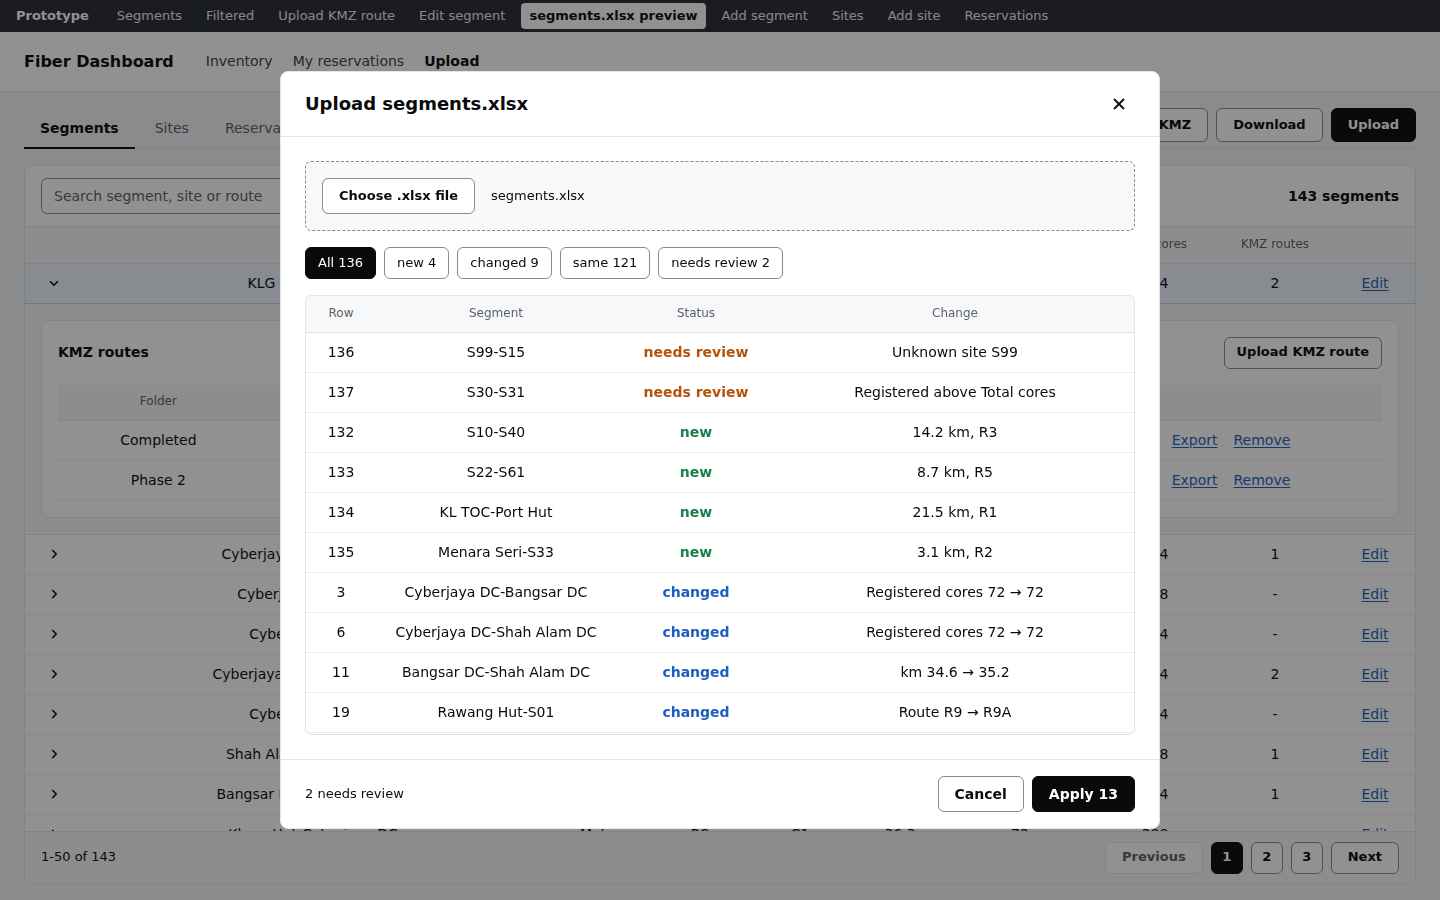
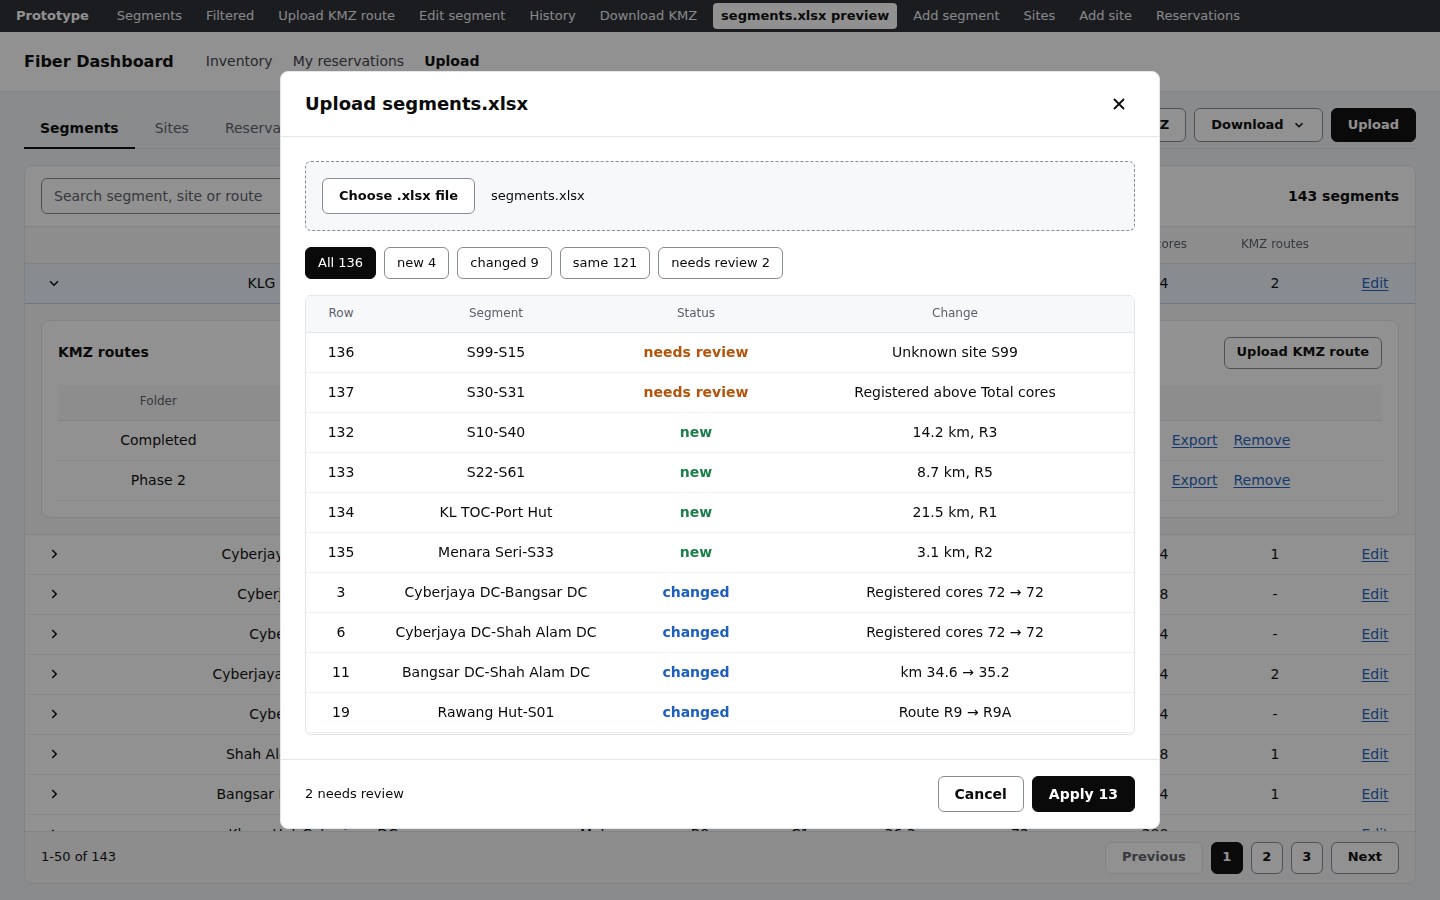
pictures: Upload rework extras (Download KMZ, same, map in Upload KMZ route, History), 26 Nov 2026
Claude-Session: https://claude.ai/code/session_01YGKZuAJrqywA4fjVaRMsdP

diff --git a/mockups/upload-rework/index.html b/mockups/upload-rework/index.html
@@ -139,7 +139,7 @@ select.field { appearance: none; padding-right: 30px; cursor: pointer; backgroun
 .drop { border: 1px dashed var(--line); background: var(--subtle); border-radius: 6px; padding: 16px; display: flex; align-items: center; gap: 16px; font-size: 13px; }
 .segname { font-size: 16px; font-weight: 500; }
 .flist { border: 1px solid var(--border); border-radius: 6px; }
-.frow { display: grid; grid-template-columns: 16px minmax(0, 1fr) 100px 80px 120px; align-items: center; gap: 12px; min-height: 40px; text-align: center; padding: 0 16px; font-size: 14px; border-bottom: 1px solid var(--rule); cursor: pointer; }
+.frow { display: grid; grid-template-columns: 16px minmax(0, 1fr) 90px 70px 120px; align-items: center; gap: 12px; min-height: 40px; text-align: center; padding: 0 16px; font-size: 14px; border-bottom: 1px solid var(--rule); cursor: pointer; }
 .frow:last-child { border-bottom: 0; }
 .frow.head { min-height: 36px; font-size: 12px; color: var(--muted-ink); background: var(--subtle); cursor: default; font-weight: 500; }
 .frow > span { overflow-wrap: anywhere; line-height: 1.3; padding: 4px 0; }
@@ -147,6 +147,31 @@ select.field { appearance: none; padding-right: 30px; cursor: pointer; backgroun
 .chips { display: flex; gap: 8px; flex-wrap: wrap; }
 .pscroll { max-height: 440px; overflow: auto; border: 1px solid var(--border); border-radius: 6px; }
 .toast { position: fixed; right: 24px; bottom: 24px; background: var(--ink); color: #fff; padding: 12px 16px; border-radius: 6px; font-size: 13px; z-index: 20; }
+
+/* Menu, options, map, history */
+.menu { position: relative; display: inline-block; }
+.menu-list { position: absolute; right: 0; top: 100%; margin-top: 4px; background: #fff; border: 1px solid var(--border); border-radius: 6px; min-width: 170px; z-index: 5; padding: 4px; display: grid; }
+.menu-list button { height: 36px; border: 0; background: none; border-radius: 4px; cursor: pointer; font-weight: 500; }
+.menu-list button:hover { background: var(--raised); }
+.opt { display: flex; align-items: center; gap: 8px; min-height: 36px; cursor: pointer; }
+.opt input { width: 16px; height: 16px; accent-color: var(--blue); margin: 0; }
+.upgrid { display: grid; grid-template-columns: minmax(0, 1fr) 360px; gap: 24px; align-items: start; }
+.upleft { display: grid; gap: 16px; min-width: 0; }
+.mapbox { border: 1px solid var(--border); border-radius: 6px; background: var(--map-bg); }
+.mapbox svg { display: block; width: 360px; height: 300px; }
+.mapbox .key { display: flex; justify-content: center; gap: 24px; padding: 8px 0; border-top: 1px solid var(--border); background: #fff; border-radius: 0 0 6px 6px; font-size: 13px; }
+.mapbox .key span { display: inline-flex; align-items: center; gap: 8px; }
+.mapbox .key svg { width: 28px; height: 10px; }
+.rt { fill: none; stroke-linecap: round; stroke-linejoin: round; }
+.rt-stored { stroke: var(--ink); stroke-width: 1.5; }
+.rt-new { stroke: var(--blue); stroke-width: 1.5; stroke-dasharray: 6 4; }
+.rt.hl { stroke-width: 4; }
+.hist summary { list-style: none; display: flex; align-items: center; gap: 8px; cursor: pointer; font-weight: 600; height: 32px; }
+.hist summary::-webkit-details-marker { display: none; }
+.hist summary svg { width: 14px; height: 14px; fill: none; stroke: var(--ink); stroke-width: 1.8; transition: transform .12s; }
+.hist[open] summary svg { transform: rotate(90deg); }
+.hist .tbl th, .hist .tbl td { padding: 4px 4px; }
+.hist .tbox { margin-top: 8px; }
 
 /* Reservations */
 .card { background: #fff; border: 1px solid var(--border); border-radius: 8px; padding: 24px; display: grid; gap: 16px; max-width: 880px; }
@@ -166,7 +191,7 @@ select.field { appearance: none; padding-right: 30px; cursor: pointer; backgroun
 
 <nav class="proto" aria-label="Prototype views">
   <b>Prototype</b>
-  <a href="#segments">Segments</a><a href="#filtered">Filtered</a><a href="#upload-route">Upload KMZ route</a><a href="#edit">Edit segment</a>
+  <a href="#segments">Segments</a><a href="#filtered">Filtered</a><a href="#upload-route">Upload KMZ route</a><a href="#edit">Edit segment</a><a href="#history">History</a><a href="#download-kmz">Download KMZ</a>
   <a href="#xlsx">segments.xlsx preview</a><a href="#add-segment">Add segment</a><a href="#sites">Sites</a><a href="#add-site">Add site</a><a href="#reservations">Reservations</a>
 </nav>
 
@@ -193,6 +218,7 @@ select.field { appearance: none; padding-right: 30px; cursor: pointer; backgroun
 <script>
 const $ = (selector) => document.querySelector(selector);
 const CHEV = '<svg viewBox="0 0 16 16"><path d="M6 3.5L10.5 8 6 12.5"/></svg>';
+const CHEVDOWN = '<svg width="14" height="14" viewBox="0 0 16 16" fill="none" stroke="currentColor" stroke-width="1.8"><path d="M4 6l4 4 4-4"/></svg>';
 const XICON = '<svg width="16" height="16" viewBox="0 0 16 16" fill="none" stroke="currentColor" stroke-width="1.8"><path d="M3 3l10 10M13 3L3 13"/></svg>';
 const plural = (count, word) => count + " " + word + (count === 1 ? "" : "s");
 const PAGE_SIZE = 50;
@@ -294,6 +320,7 @@ const state = {
   sites: { search: "", kind: "", page: 0 },
   open: new Set(),
   modal: null,
+  menu: false,
   reservationClosed: false,
 };
 
@@ -313,7 +340,8 @@ function render() {
   });
   if (state.tab === "segments") {
     $("#bulk").innerHTML = `<button class="btn btn-sm" type="button" data-open="import-kmz">Import KMZ</button>
-      <button class="btn btn-sm" type="button" data-act="download-seg">Download</button>
+      <span class="menu"><button class="btn btn-sm" type="button" data-menu="1" aria-haspopup="menu" aria-expanded="${state.menu}">Download ${CHEVDOWN}</button>
+      ${state.menu ? '<div class="menu-list" role="menu"><button type="button" role="menuitem" data-act="download-seg">segments.xlsx</button><button type="button" role="menuitem" data-open="dl-kmz">KMZ routes</button></div>' : ""}</span>
       <button class="btn btn-sm btn-p" type="button" data-open="xlsx-seg">Upload</button>`;
     renderSegments();
   } else if (state.tab === "sites") {
@@ -522,32 +550,74 @@ function boxShell(width, title, body, foot, labelId = "box-title") {
     <div class="bb">${body}</div><div class="bf">${foot}</div></div>`;
 }
 function fileLines(segment) {
-  const others = SEGMENTS.slice(8, 13);
-  const list = [{ key: "f0", title: segment.link, folder: "Completed", km: +(segment.km * 1.03).toFixed(1) }];
-  others.forEach((other, index) => list.push({ key: "f" + (index + 1), title: other.link, folder: "Completed", km: +(other.km * 1.02).toFixed(1) }));
-  list.push({ key: "f9", title: "Untitled Path", folder: "Completed", km: 6.9 });
-  return list;
+  return [
+    { key: "f0", title: segment.link, folder: "Completed", km: +(segment.km * 1.03).toFixed(1), status: "same" },
+    { key: "f1", title: segment.link, folder: "Phase 2", km: +(segment.km * 1.05).toFixed(1), status: "replaces route" },
+    { key: "f2", title: "Path 12", folder: "Phase 2", km: 6.9, status: "new" },
+  ];
+}
+const ROUTE_PTS = {
+  stored: "50,220 100,205 140,160 190,150 235,105 275,85 310,70",
+  f0: "50,220 100,205 140,160 190,150 235,105 275,85 310,70",
+  f1: "50,220 95,235 150,215 200,180 240,140 280,100 310,70",
+  f2: "50,220 80,170 130,120 190,95 250,60 310,70",
+};
+function mapSvg(modal, segment, lines) {
+  const stored = liveLines(segment).length > 0 ? `<polyline class="rt rt-stored" data-rt="stored" points="${ROUTE_PTS.stored}"/>` : "";
+  const fresh = lines.filter((line) => modal.picked.has(line.key) && line.status !== "same")
+    .map((line) => `<polyline class="rt rt-new" data-rt="${line.key}" points="${ROUTE_PTS[line.key]}"/>`).join("");
+  const hover = lines.filter((line) => !modal.picked.has(line.key) || line.status === "same")
+    .map((line) => `<polyline class="rt rt-new" data-rt="${line.key}" points="${ROUTE_PTS[line.key]}" opacity="0"/>`).join("");
+  const dots = `<circle cx="50" cy="220" r="6" fill="var(--ink)"/><circle cx="310" cy="70" r="6" fill="var(--ink)"/>
+    <text x="50" y="250" text-anchor="start" font-size="13" fill="var(--ink)">${segment.a}</text><text x="310" y="50" text-anchor="end" font-size="13" fill="var(--ink)">${segment.b}</text>`;
+  const key = `<div class="key"><span><svg viewBox="0 0 28 10"><line x1="0" y1="5" x2="28" y2="5" stroke="var(--ink)" stroke-width="1.5"/></svg>Stored</span>
+    <span><svg viewBox="0 0 28 10"><line x1="0" y1="5" x2="28" y2="5" stroke="var(--blue)" stroke-width="1.5" stroke-dasharray="6 4"/></svg>New</span>
+    <span><svg viewBox="0 0 28 10"><circle cx="14" cy="5" r="4" fill="var(--ink)"/></svg>Site</span></div>`;
+  return `<div class="mapbox"><svg viewBox="0 0 360 300" role="img" aria-label="Route map">${stored}${hover}${fresh}${dots}</svg>${key}</div>`;
 }
 function uploadLineBox(modal) {
   const segment = segById(modal.seg);
-  const hasLine = liveLines(segment).length > 0;
   const file = modal.file;
+  const lines = fileLines(segment);
   let list = "";
   if (file) {
-    const rows = fileLines(segment).map((line) => {
+    const rows = lines.map((line) => {
       const on = modal.picked.has(line.key);
-      const note = on && hasLine ? '<span class="warn">replaces route</span>' : "<span></span>";
-      return `<label class="frow${on ? " on" : ""}"><input type="checkbox" data-fpick="${line.key}" ${on ? "checked" : ""} aria-label="Pick ${line.title}">
-        <span title="${line.title}">${line.title}</span><span>${line.folder}</span><span>${line.km.toFixed(1)} km</span>${note}</label>`;
+      const cls = line.status === "new" ? "st-new" : line.status === "same" ? "st-same" : "warn";
+      return `<label class="frow${on ? " on" : ""}" data-row="${line.key}"><input type="checkbox" data-fpick="${line.key}" ${on ? "checked" : ""} aria-label="Pick ${line.title}">
+        <span title="${line.title}">${line.title}</span><span>${line.folder}</span><span>${line.km.toFixed(1)} km</span><span class="${cls}">${line.status}</span></label>`;
     }).join("");
-    list = `<div class="flist"><div class="frow head"><span></span><span>Name</span><span>Folder</span><span>km</span><span></span></div>${rows}</div>`;
+    list = `<div class="flist"><div class="frow head"><span></span><span>Name</span><span>Folder</span><span>km</span><span>Status</span></div>${rows}</div>`;
   }
   const size = modal.picked.size;
-  const body = `<div class="segname">${segment.link}</div>
-    <div class="drop"><button class="btn ${file ? "" : "btn-p"}" type="button" id="up-choose">Choose .kmz file</button><span>${file ?? "No file"}</span></div>${list}`;
+  const body = `<div class="upgrid"><div class="upleft"><div class="segname">${segment.link}</div>
+    <div class="drop"><button class="btn ${file ? "" : "btn-p"}" type="button" id="up-choose">Choose .kmz file</button><span>${file ?? "No file"}</span></div>${list}</div>
+    ${mapSvg(modal, segment, lines)}</div>`;
   const foot = `<span class="count"></span><button class="btn" type="button" data-close>Cancel</button>
     <button class="btn btn-p" type="button" id="up-add" ${size === 0 ? "disabled" : ""}>Add ${plural(size, "route")}</button>`;
-  return boxShell(640, "Upload KMZ route", body, foot);
+  return boxShell(1000, "Upload KMZ route", body, foot);
+}
+const HISTORY = {
+  segment: [["12 Nov 2026", "km", "12.0", "12.4", "admin1", "-"], ["05 Nov 2026", "Registered cores", "-", "48", "upload: segments.xlsx", "-"],
+    ["28 Oct 2026", "Route", "R2", "R1", "admin1", "Renamed"], ["14 Oct 2026", "Total cores", "96", "144", "planner2", "-"]],
+  site: [["19 Nov 2026", "Lat", "3.00110", "3.00210", "admin1", "-"], ["05 Nov 2026", "Type", "Site", "Building", "upload: sites.xlsx", "-"],
+    ["28 Oct 2026", "Name", "Klang", "Klang Hut", "admin1", "Fixed name"]],
+};
+function historyHtml(kind, open) {
+  const rows = HISTORY[kind];
+  return `<details class="hist wide" ${open ? "open" : ""}><summary>${CHEV}History (${rows.length})</summary>
+    <div class="tbox"><table class="tbl" aria-label="History">
+      <colgroup><col style="width:120px"><col style="width:140px"><col style="width:60px"><col style="width:60px"><col style="width:190px"><col></colgroup>
+      <thead><tr><th>Date</th><th>Field</th><th>From</th><th>To</th><th>By</th><th>Remarks</th></tr></thead>
+      <tbody>${rows.map((row) => `<tr>${row.map((cell) => `<td>${cell}</td>`).join("")}</tr>`).join("")}</tbody></table></div></details>`;
+}
+function downloadKmzBox(modal) {
+  const total = SEGMENTS.length;
+  const shown = filteredSegments().length;
+  const body = `<div class="opt-grp"><label class="opt"><input type="radio" name="dl" data-dl="all" ${modal.choice === "all" ? "checked" : ""}>All segments (${total})</label>
+    <label class="opt"><input type="radio" name="dl" data-dl="filtered" ${modal.choice === "filtered" ? "checked" : ""}>Filtered (${shown})</label></div>`;
+  const foot = '<span class="count"></span><button class="btn" type="button" data-close>Cancel</button><button class="btn btn-p" type="button" id="dl-go">Download</button>';
+  return boxShell(480, "Download KMZ routes", body, foot);
 }
 function editBox(modal) {
   const segment = segById(modal.seg);
@@ -561,8 +631,9 @@ function editBox(modal) {
       <label>Total cores<input class="field" id="ed-total" value="${segment.total}" inputmode="numeric"></label>
       <label class="wide">Remarks<textarea class="field" id="ed-remarks"></textarea></label>
       <p class="err wide" id="ed-err" role="alert"></p>
+      ${historyHtml("segment", modal.hist)}
     </div>`;
-  return boxShell(560, "Edit segment", body, '<span class="count"></span><button class="btn" type="button" data-close>Cancel</button><button class="btn btn-p" type="button" id="ed-save">Save</button>');
+  return boxShell(720, "Edit segment", body, '<span class="count"></span><button class="btn" type="button" data-close>Cancel</button><button class="btn btn-p" type="button" id="ed-save">Save</button>');
 }
 function addSegmentBox(modal) {
   const body = `<div class="form">
@@ -582,9 +653,10 @@ function siteBox(modal) {
     <span></span>
     <label>Lat<input class="field" id="si-lat" value="${site.lat}" inputmode="decimal"></label>
     <label>Long<input class="field" id="si-long" value="${site.long}" inputmode="decimal"></label>
-    <p class="err wide" id="si-err" role="alert">${modal.err ?? ""}</p></div>`;
+    <p class="err wide" id="si-err" role="alert">${modal.err ?? ""}</p>
+    ${modal.edit ? historyHtml("site", modal.hist) : ""}</div>`;
   const label = modal.edit ? "Save" : "Add site";
-  return boxShell(560, modal.edit ? "Edit site" : "Add site", body, `<span class="count"></span><button class="btn" type="button" data-close>Cancel</button><button class="btn btn-p" type="button" id="si-save">${label}</button>`);
+  return boxShell(modal.edit ? 720 : 560, modal.edit ? "Edit site" : "Add site", body, `<span class="count"></span><button class="btn" type="button" data-close>Cancel</button><button class="btn btn-p" type="button" id="si-save">${label}</button>`);
 }
 function importKmzBox() {
   const body = `<p><a class="link" href="../kmz-import-v3/index.html" target="_blank" rel="noopener">Open KMZ import</a></p>`;
@@ -660,7 +732,7 @@ function renderModal() {
     $("#modal").innerHTML = "";
     return;
   }
-  const builders = { "upload-route": uploadLineBox, edit: editBox, "add-segment": addSegmentBox, site: siteBox, "import-kmz": importKmzBox, xlsx: xlsxBox };
+  const builders = { "upload-route": uploadLineBox, edit: editBox, "add-segment": addSegmentBox, site: siteBox, "import-kmz": importKmzBox, xlsx: xlsxBox, "dl-kmz": downloadKmzBox };
   $("#modal").innerHTML = builders[modal.type](modal);
 }
 
@@ -691,6 +763,8 @@ document.addEventListener("change", (event) => {
     state.sites.kind = event.target.value;
     state.sites.page = 0;
     renderSiteRows();
+  } else if (event.target.dataset.dl) {
+    state.modal.choice = event.target.dataset.dl;
   } else if (event.target.dataset.fpick) {
     const key = event.target.dataset.fpick;
     if (state.modal.picked.has(key)) {
@@ -705,6 +779,15 @@ document.addEventListener("change", (event) => {
 const removeTimers = {};
 document.addEventListener("click", (event) => {
   const target = event.target.closest("button, [data-close]");
+  if (state.menu && !(target && target.dataset.menu)) {
+    state.menu = false;
+    if (state.tab === "segments") {
+      render();
+    }
+    if (!target || !(target.dataset.open || target.dataset.act)) {
+      return;
+    }
+  }
   if (!target) {
     return;
   }
@@ -714,7 +797,17 @@ document.addEventListener("click", (event) => {
     renderModal();
     return;
   }
-  if (target.id === "chip-noline") {
+  if (data.menu) {
+    state.menu = true;
+    render();
+  } else if (data.open === "dl-kmz") {
+    state.modal = { type: "dl-kmz", choice: filteredSegments().length < SEGMENTS.length ? "filtered" : "all" };
+    renderModal();
+  } else if (target.id === "dl-go") {
+    state.modal = null;
+    renderModal();
+    toast("routes.kmz");
+  } else if (target.id === "chip-noline") {
     state.seg.noLine = !state.seg.noLine;
     state.seg.page = 0;
     target.setAttribute("aria-pressed", state.seg.noLine);
@@ -773,7 +866,7 @@ document.addEventListener("click", (event) => {
     renderModal();
   } else if (target.id === "up-choose") {
     state.modal.file = "completed-nov.kmz";
-    state.modal.picked = new Set(["f0"]);
+    state.modal.picked = new Set(["f1"]);
     renderModal();
   } else if (target.id === "up-add") {
     const segment = segById(state.modal.seg);
@@ -844,6 +937,18 @@ document.addEventListener("click", (event) => {
     renderReservations();
   }
 });
+function highlight(event, on) {
+  const row = event.target.closest && event.target.closest("[data-row]");
+  const path = row && document.querySelector(`[data-rt="${row.dataset.row}"]`);
+  if (path) {
+    path.classList.toggle("hl", on);
+    if (path.getAttribute("opacity")) {
+      path.setAttribute("opacity", on ? "1" : "0");
+    }
+  }
+}
+document.addEventListener("mouseover", (event) => highlight(event, true));
+document.addEventListener("mouseout", (event) => highlight(event, false));
 document.addEventListener("keydown", (event) => {
   if (event.key === "Escape" && state.modal) {
     state.modal = null;
@@ -936,6 +1041,7 @@ function applyHash() {
   const hash = location.hash.slice(1) || "segments";
   document.querySelectorAll(".proto a").forEach((link) => link.classList.toggle("on", link.getAttribute("href") === "#" + hash));
   state.modal = null;
+  state.menu = false;
   state.seg = { search: "", site: "", route: "", noLine: false, notRegistered: false, page: 0 };
   state.sites = { search: "", kind: "", page: 0 };
   state.open = new Set([1]);
@@ -945,9 +1051,15 @@ function applyHash() {
     state.seg.site = "Cyberjaya DC";
     state.seg.noLine = true;
   } else if (hash === "upload-route") {
-    state.modal = { type: "upload-route", seg: 1, file: "completed-nov.kmz", picked: new Set(["f0"]) };
+    state.modal = { type: "upload-route", seg: 1, file: "completed-nov.kmz", picked: new Set(["f1"]) };
   } else if (hash === "edit") {
     state.modal = { type: "edit", seg: 1 };
+  } else if (hash === "history") {
+    state.modal = { type: "edit", seg: 1, hist: true };
+  } else if (hash === "download-kmz") {
+    state.open = new Set();
+    state.seg.site = "Cyberjaya DC";
+    state.modal = { type: "dl-kmz", choice: "filtered" };
   } else if (hash === "xlsx") {
     state.modal = { type: "xlsx", kind: "seg", filter: "all" };
   } else if (hash === "add-segment") {
